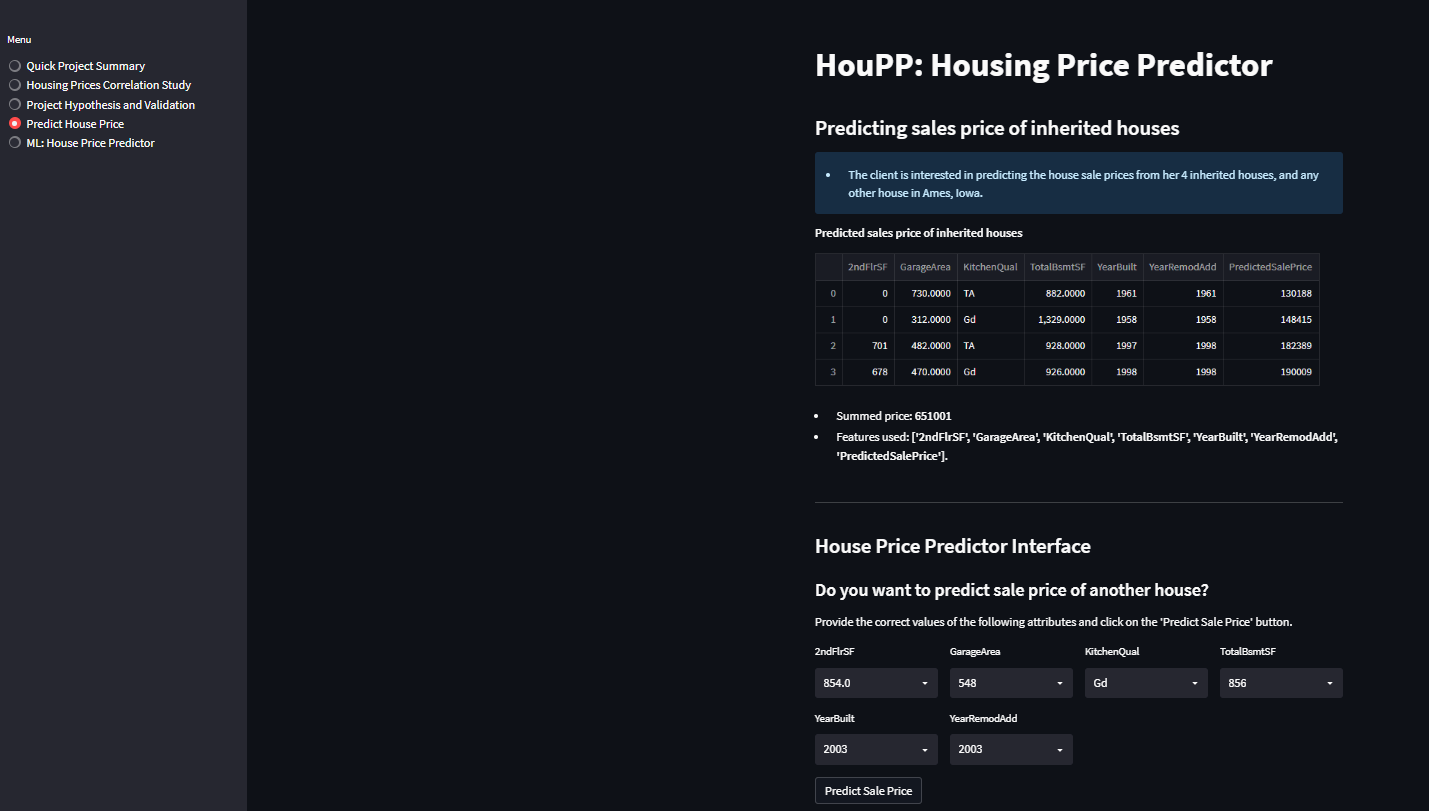
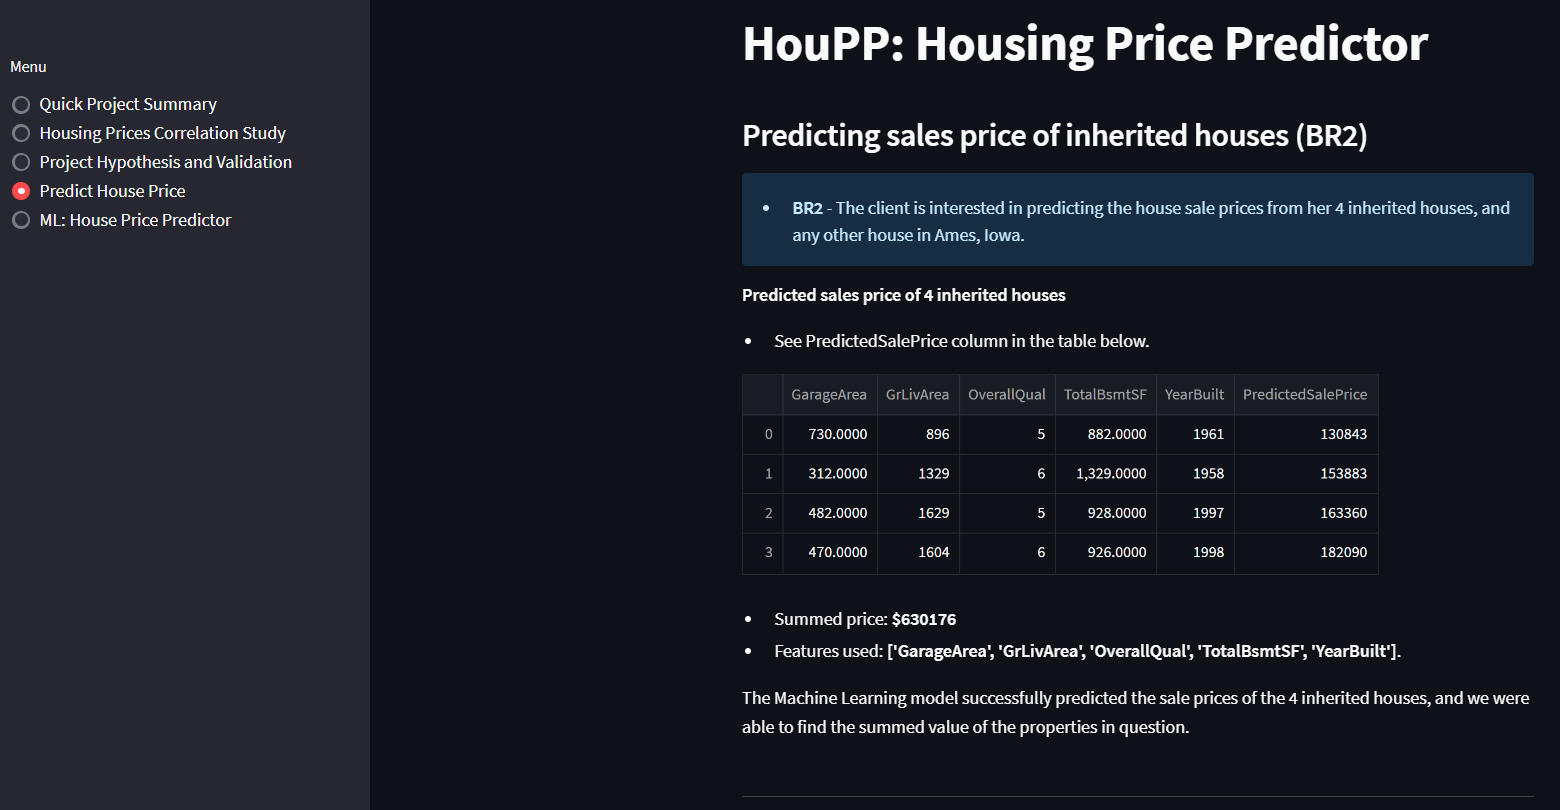
Update screenshots

diff --git a/app_pages/page_predict_price.py b/app_pages/page_predict_price.py
@@ -7,7 +7,7 @@ from src.machine_learning.predictive_analysis_ui import predict_price, predict_i
 def page_predict_price_body():
 	
 	# load predict price files
-	version = 'v3'
+	version = 'v4'
 	regression_pipe = load_pkl_file(f"outputs/ml_pipeline/predict_price/{version}/regression_pipeline.pkl")
 	house_features = (pd.read_csv(f"outputs/ml_pipeline/predict_price/{version}/X_train.csv")
 					.columns
@@ -92,18 +92,6 @@ def DrawInputsWidgets():
 	# from here on we draw the widget based on the variable type (numerical or categorical)
 	# and set initial values
 	with col1:
-		feature = "TotalSF"
-		st_widget = st.number_input(
-			label= feature,
-			min_value= int(df[feature].min()*percentageMin), 
-			max_value= int(df[feature].max()*percentageMax),
-			value= int(df[feature].median()), 
-            step= 50
-			)
-	X_live[feature] = st_widget
-
-
-	with col2:
 		feature = "GarageArea"
 		st_widget = st.number_input(
 			label= feature,
@@ -112,31 +100,45 @@ def DrawInputsWidgets():
 			value= int(df[feature].median()), 
             step= 50
 			)
+		
 	X_live[feature] = st_widget
 
 
-	with col3:
-		feature = "YearBuilt"
+	with col2:
+		feature = "GrLivArea"
 		st_widget = st.number_input(
 			label= feature,
 			min_value= int(df[feature].min()*percentageMin), 
-			max_value= date.today().year,
+			max_value= int(df[feature].max()*percentageMax),
 			value= int(df[feature].median()), 
-            step= 1
+            step= 50
+			)
+	X_live[feature] = st_widget
+
+	with col3:
+		feature = "OverallQual"
+		st_widget = st.number_input(
+			label= feature,
+			min_value= 1, 
+			max_value= 10,
+			value= 5, 
+            step=1
 			)
 	X_live[feature] = st_widget
 
 	with col4:
-		feature = "KitchenQual"
-		options = ['Excellent', 'Average']
-		st_widget = st.selectbox(
+		feature = "TotalBsmtSF"
+		st_widget = st.number_input(
 			label= feature,
-			options= df[feature].unique()
+			min_value= int(df[feature].min()*percentageMin), 
+			max_value= int(df[feature].max()*percentageMax),
+			value= int(df[feature].median()), 
+            step= 50
 			)
 	X_live[feature] = st_widget
 
 	with col5:
-		feature = "YearRemodAdd"
+		feature = "YearBuilt"
 		st_widget = st.number_input(
 			label= feature,
 			min_value= int(df[feature].min()*percentageMin), 

diff --git a/app_pages/page_ML_predict_price.py b/app_pages/page_ML_predict_price.py
@@ -11,7 +11,7 @@ def page_ml_predict_price_body():
     performance plots 
     """
     # load price pipeline files
-    version = 'v3'
+    version = 'v4'
     price_pipe = load_pkl_file(f"outputs/ml_pipeline/predict_price/{version}/regression_pipeline.pkl")
     price_feat_importance = plt.imread(f"outputs/ml_pipeline/predict_price/{version}/features_importance.png")
     X_train = pd.read_csv(f"outputs/ml_pipeline/predict_price/{version}/X_train.csv")
@@ -29,7 +29,7 @@ def page_ml_predict_price_body():
                  attributes. We were able to achieve this success metric, but we trained different\
                  versions of the model to make sure that we don't pverlook potential improvement.\n"
         f"* The pipeline performance for the best model on the train and test set is\
-             R2 == 0.99 and R2 == 0.79 respectively.\n"
+             R2 == 0.84 and R2 == 0.77 respectively.\n"
         f"* We present the pipeline steps, best features list along with feature importance plot, pipeline performance and regression performance report below. "
        )
     st.write("---")
